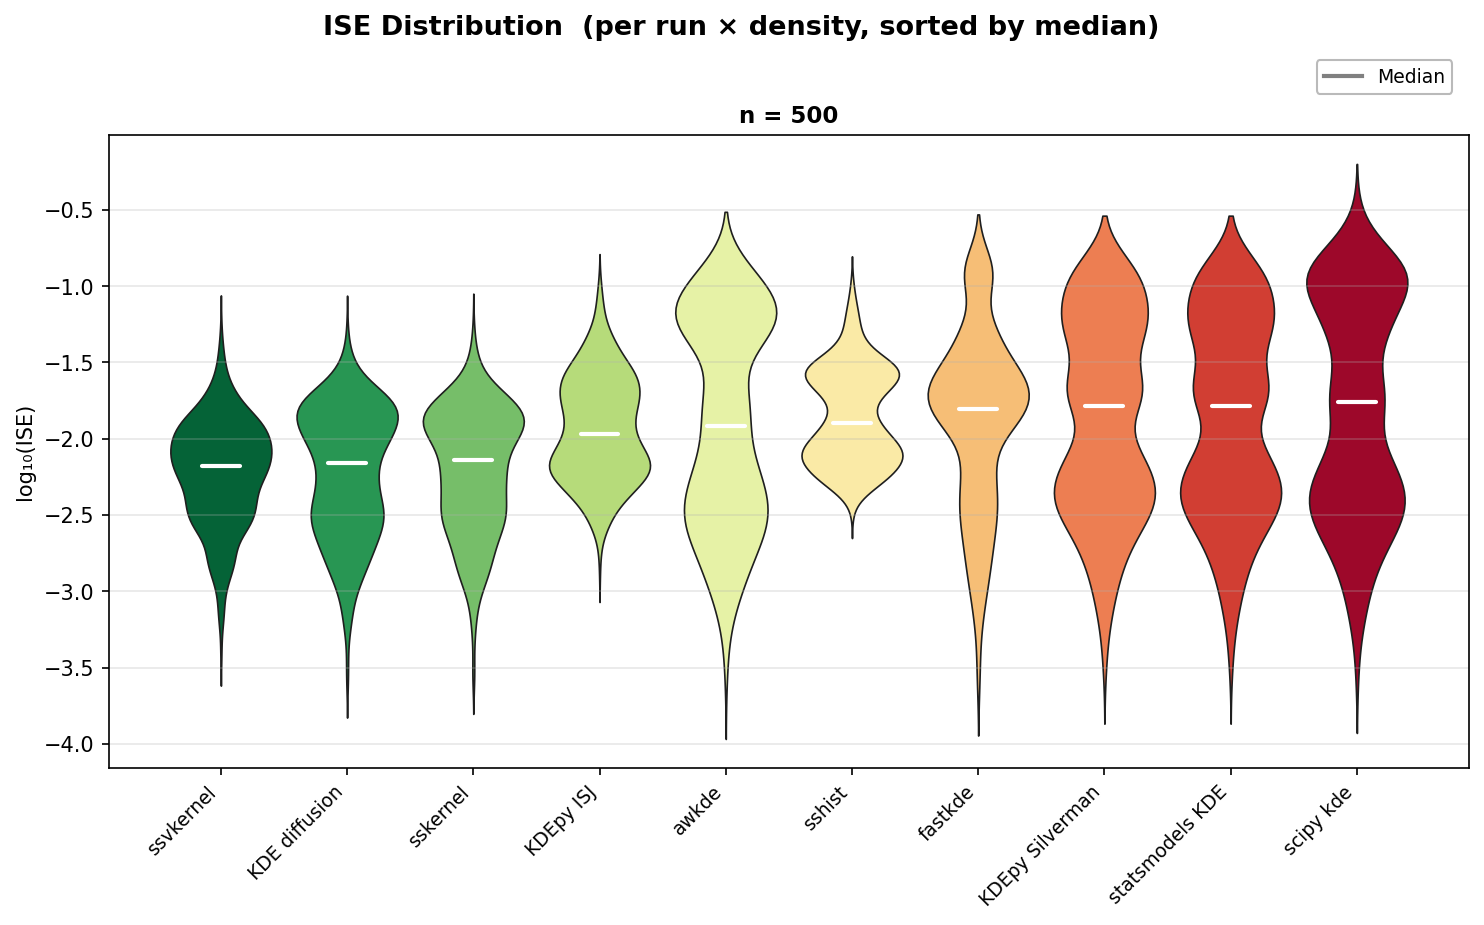
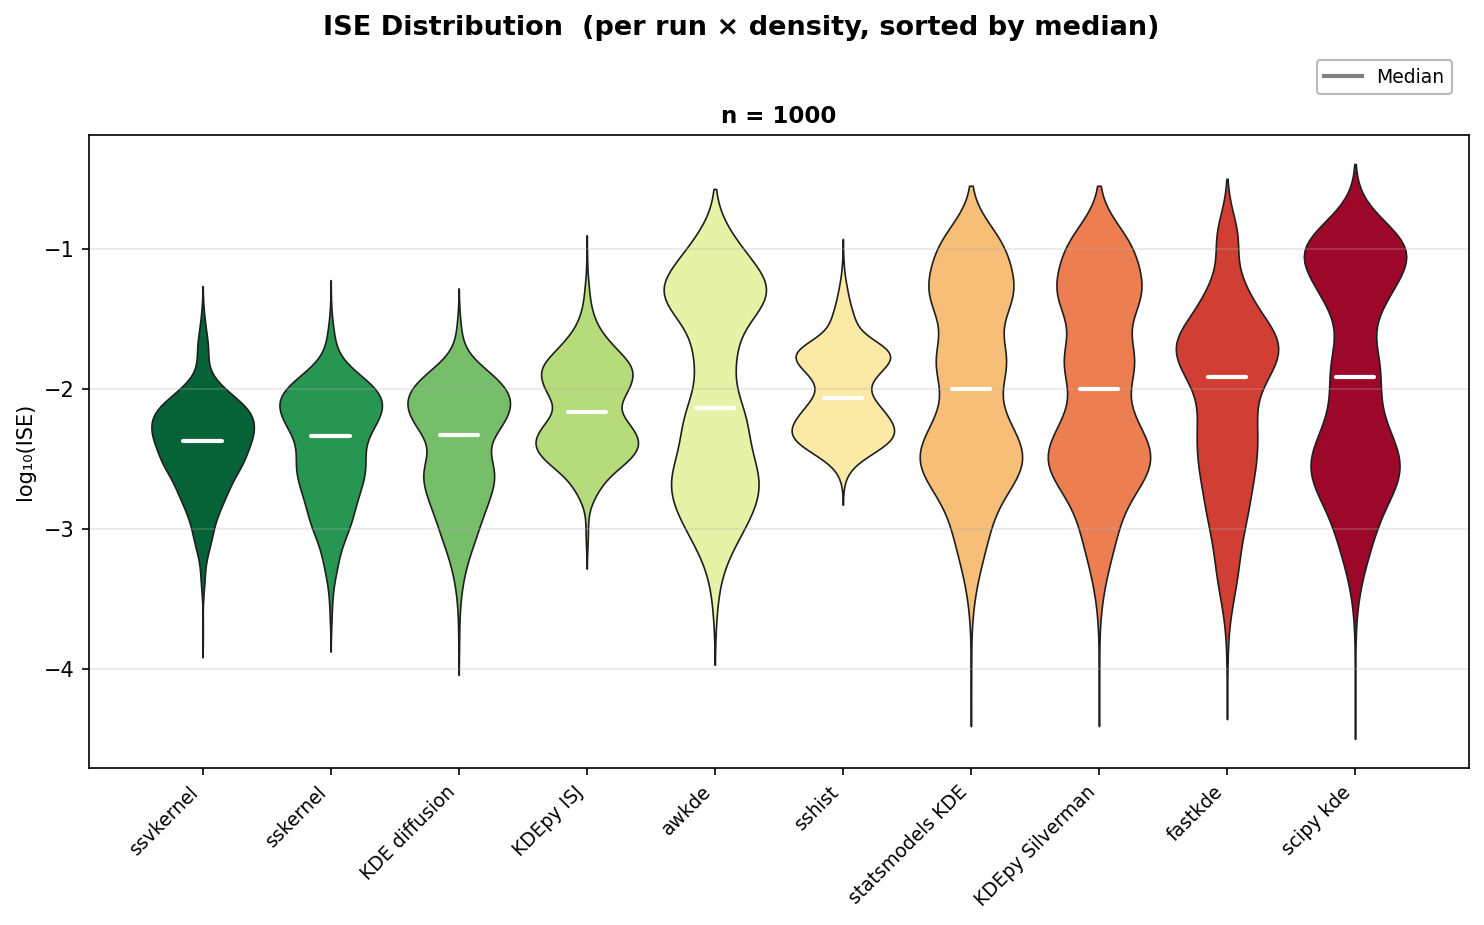
Update benchmark figures and README to n=1000 (mc=50, run on otto)

diff --git a/README.md b/README.md
@@ -94,7 +94,7 @@ fixed-bandwidth `sskernel` smooths over.
 ## Comparison of methods
 
 Ten density estimation methods are evaluated on the 15 Marron-Wand (1992)
-benchmark densities (*n* = 500, 50 Monte Carlo runs per density).
+benchmark densities (*n* = 1000, 50 Monte Carlo runs per density).
 
 ### ISE distribution
 
